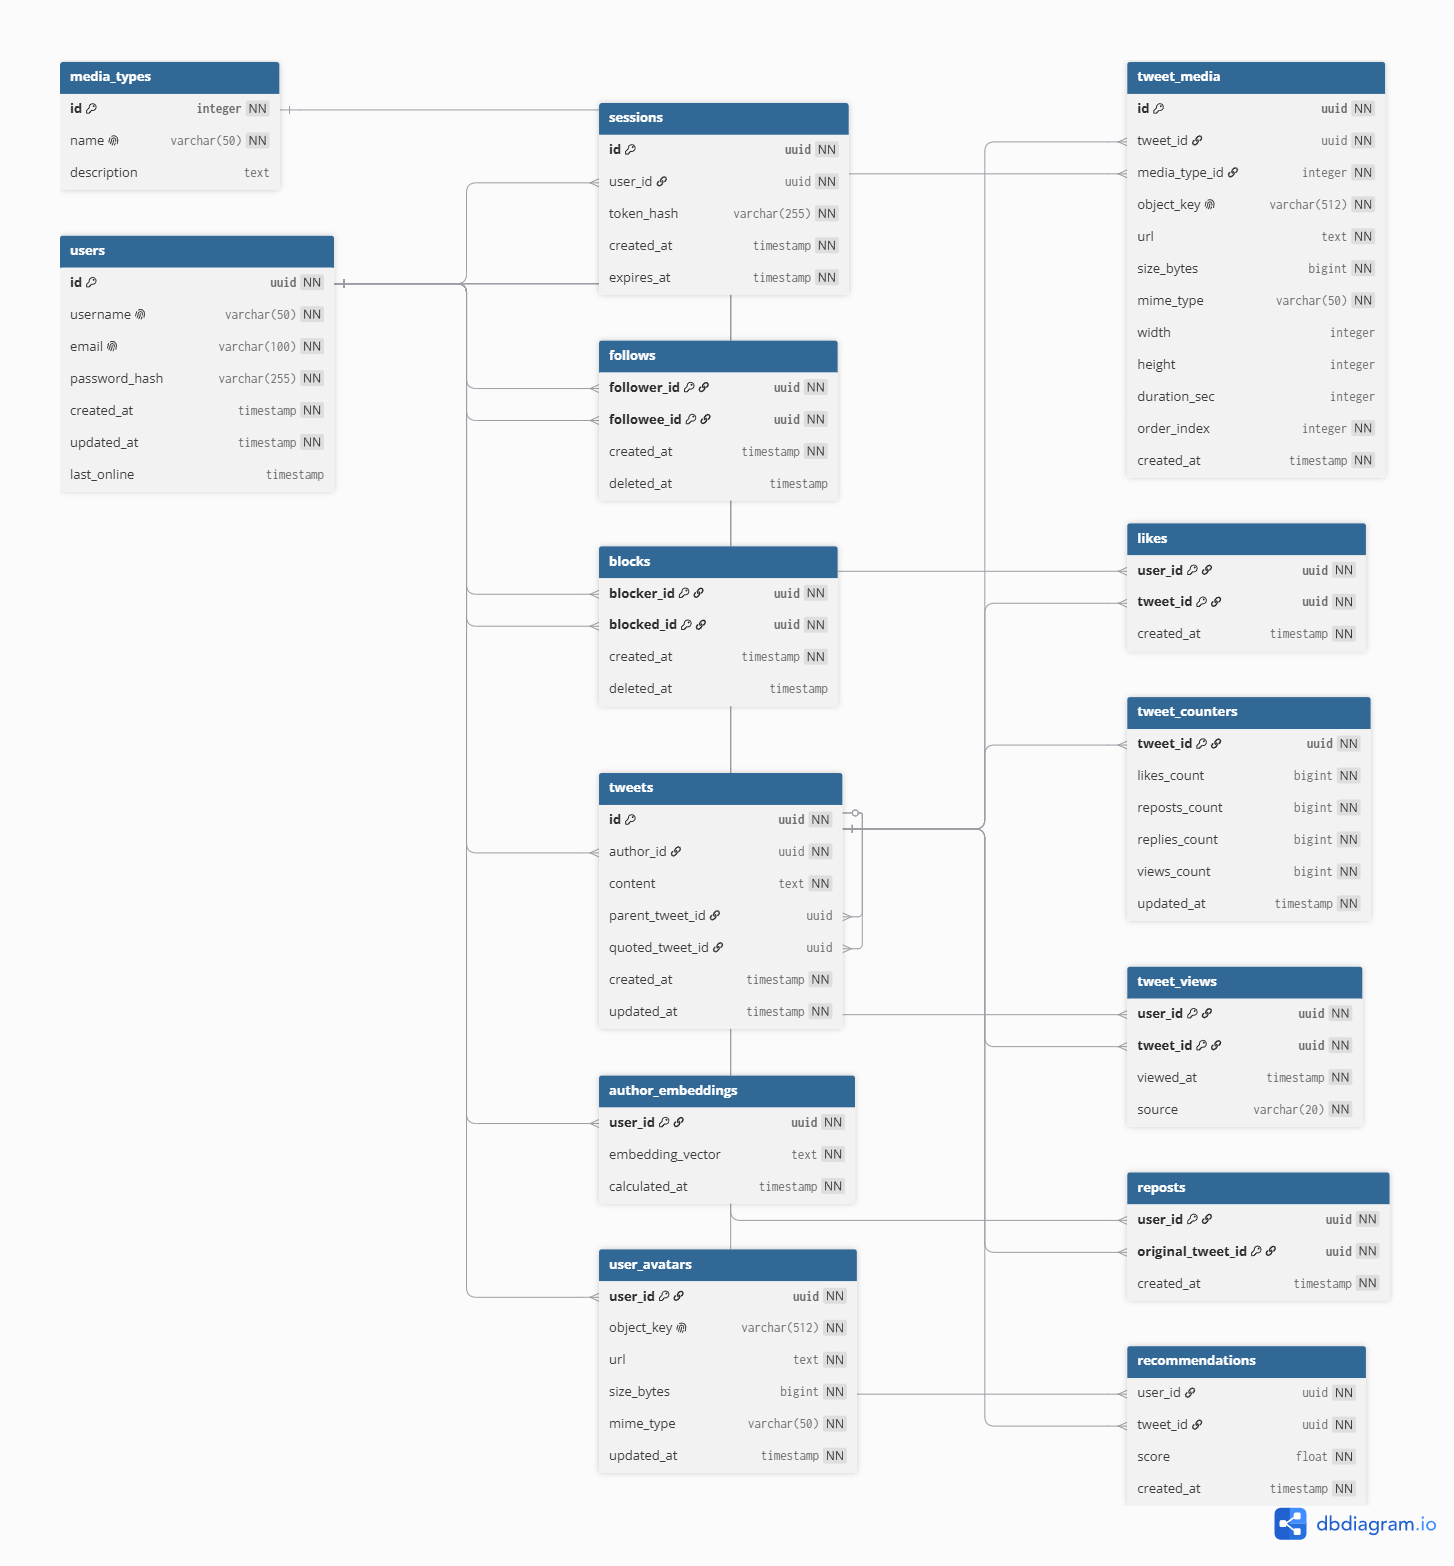
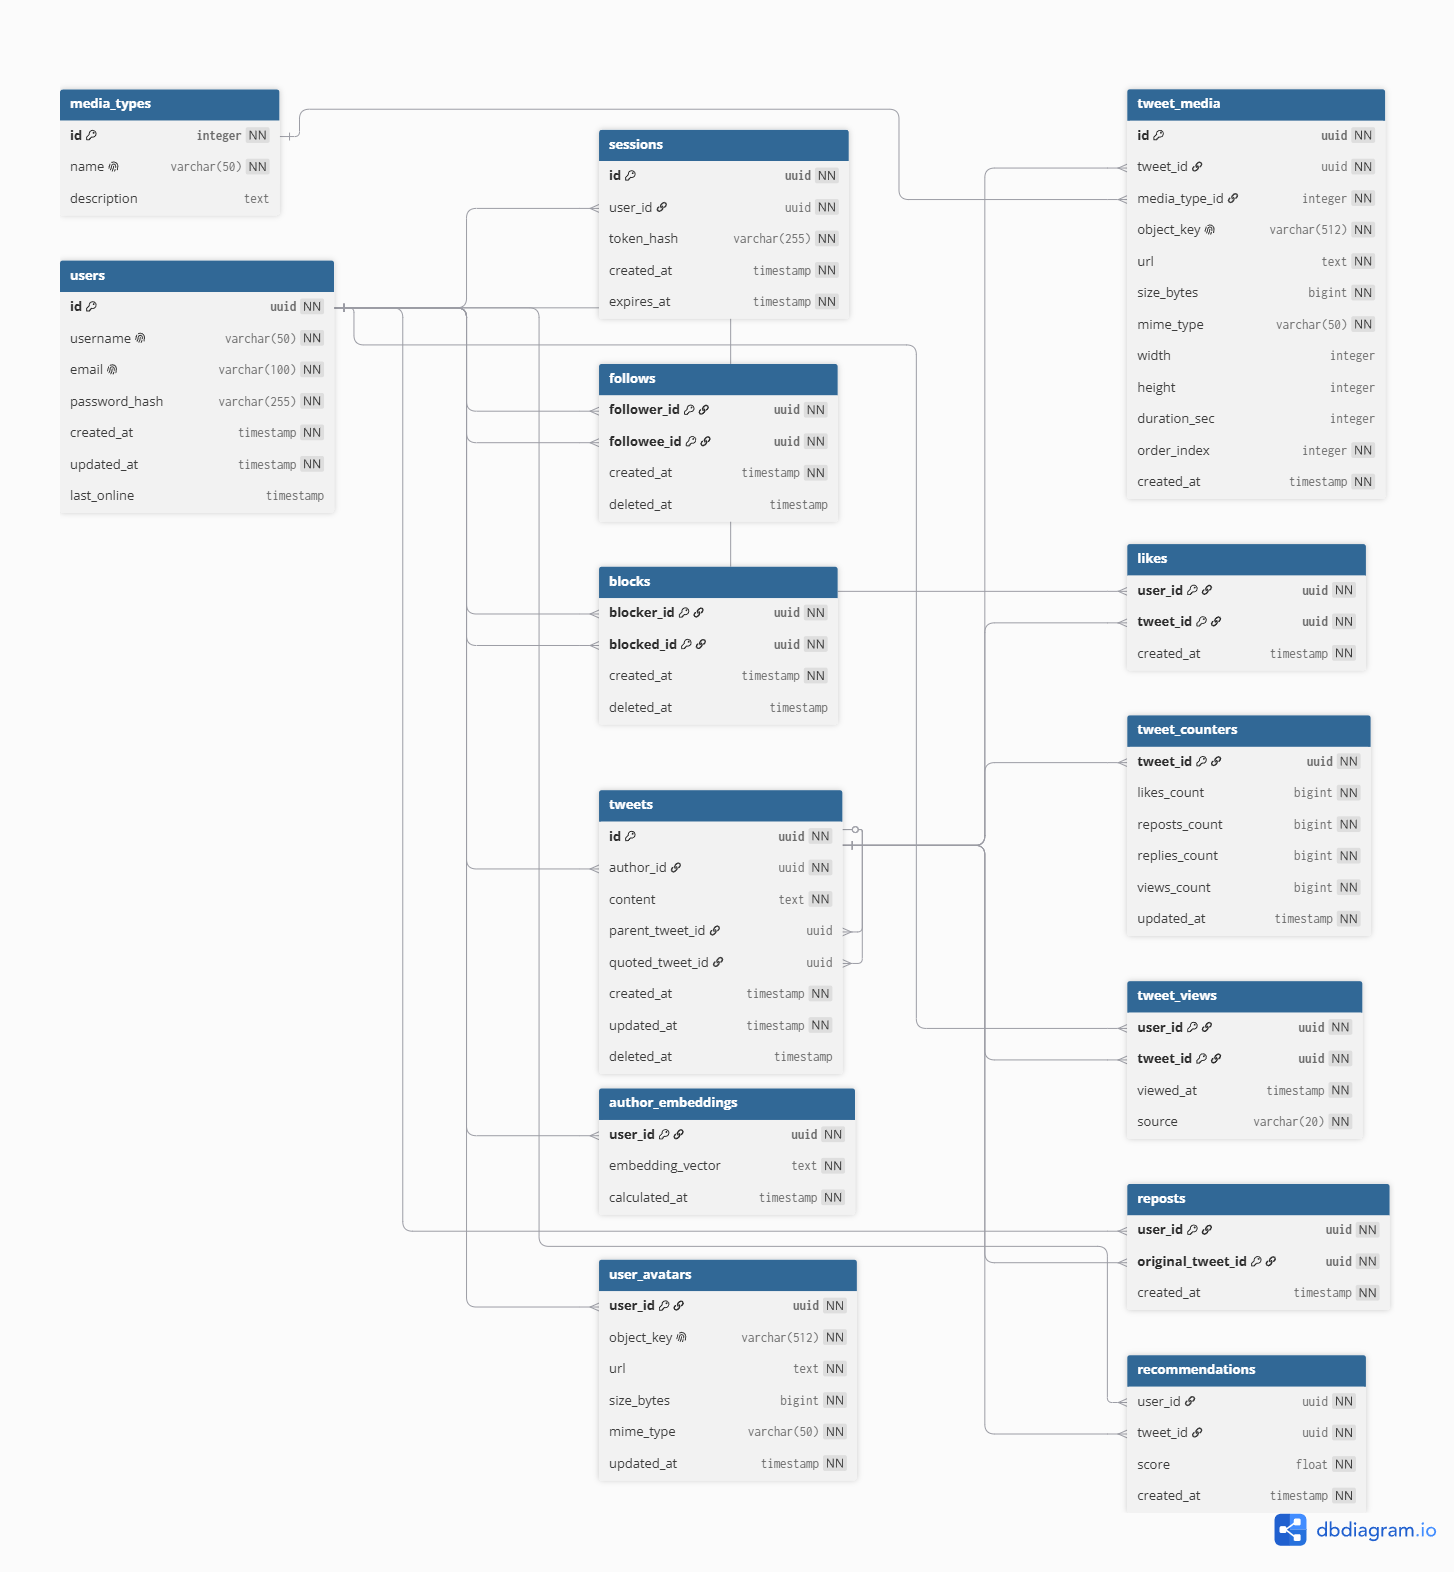
fix

diff --git a/README.md b/README.md
@@ -440,7 +440,7 @@ flowchart TD
 8.8 / 24 = 0.367 Gbps/vCPU
 ```
 
-## Пропускная способность одной ingress-ноды
+### Пропускная способность одной ingress-ноды
 
 Для 16 vCPU:
 
@@ -448,7 +448,7 @@ flowchart TD
 0.367 * 16 = 5.87 Gbps
 ```
 
-## Расчет сетевой нагрузки
+### Расчет сетевой нагрузки
 
 Средний размер API/Web ответа:
 
@@ -463,7 +463,7 @@ flowchart TD
 = 128.7 Gbps
 ```
 
-## Количество нод по сети
+### Количество нод по сети
 
 ```text
 128.7 / 5.87 = 21.93
@@ -475,7 +475,7 @@ flowchart TD
 22 ingress-нод
 ```
 
-# Итоговый расчет
+### Итоговый расчет
 
 |Ограничение|Требуется нод|
 |---|---|
@@ -484,7 +484,7 @@ flowchart TD
 
 Сеть становится основным ограничителем.
 
-## Итоговая конфигурация
+### Итоговая конфигурация
 
 Используется схема резервирования N + 1.
 
@@ -526,22 +526,22 @@ flowchart TD
 
 ### Описание таблиц
 
-|Таблица|Назначение|Что хранится|Особенности|
-|---|---|---|---|
-|`media_types`|Справочник типов медиафайлов|Типы `image`, `video`, `gif`|Практически не изменяется|
-|`users`|Профиль пользователя|Username, email, пароль, даты создания и обновления|Основная учетная сущность|
-|`sessions`|Пользовательские сессии|Токены авторизации и срок действия|Используется для проверки авторизации|
-|`follows`|Подписки|Кто на кого подписан|Для unfollow используется soft-delete|
-|`blocks`|Блокировки|Кто кого заблокировал|Для unblock используется soft-delete|
-|`tweets`|Твиты|Текст, автор, ответы, цитаты|Основная сущность платформы|
-|`tweet_media`|Медиафайлы твитов|Ссылки на изображения и видео|Хранятся только метаданные|
-|`likes`|Лайки|Кто лайкнул какой твит|Высокая нагрузка на запись|
-|`reposts`|Репосты|Кто репостнул какой твит|Используется при формировании ленты|
-|`tweet_views`|История просмотров|Какие твиты были показаны пользователю|Нужна для исключения повторных показов|
-|`tweet_counters`|Счетчики|Количество лайков, просмотров, ответов и репостов|Обновляются асинхронно|
-|`recommendations`|Рекомендации|Предрасчитанная рекомендательная лента|Не является основным источником данных|
-|`author_embeddings`|Векторные представления|Векторы интересов пользователей|Используются для рекомендаций|
-|`user_avatars`|Аватары|Метаданные аватаров пользователей|Бинарные файлы лежат в S3|
+| Таблица             | Назначение                   | Что хранится                                        | Особенности                                              |
+| ------------------- | ---------------------------- | --------------------------------------------------- | -------------------------------------------------------- |
+| `media_types`       | Справочник типов медиафайлов | Типы `image`, `video`, `gif`                        | Практически не изменяется                                |
+| `users`             | Профиль пользователя         | Username, email, пароль, даты создания и обновления | Основная учетная сущность                                |
+| `sessions`          | Пользовательские сессии      | Токены авторизации и срок действия                  | Используется для проверки авторизации                    |
+| `follows`           | Подписки                     | Кто на кого подписан                                | Используется при формировании ленты                      |
+| `blocks`            | Блокировки                   | Кто кого заблокировал                               | Исключает контент заблокированных пользователей из лент. |
+| `tweets`            | Твиты                        | Текст, автор, ответы, цитаты                        | Основная сущность платформы                              |
+| `tweet_media`       | Медиафайлы твитов            | Ссылки на изображения и видео                       | Хранятся только метаданные                               |
+| `likes`             | Лайки                        | Кто лайкнул какой твит                              | Высокая нагрузка на запись                               |
+| `reposts`           | Репосты                      | Кто репостнул какой твит                            | Используется при формировании ленты                      |
+| `tweet_views`       | История просмотров           | Какие твиты были показаны пользователю              | Нужна для исключения повторных показов                   |
+| `tweet_counters`    | Счетчики                     | Количество лайков, просмотров, ответов и репостов   | Обновляются асинхронно                                   |
+| `recommendations`   | Рекомендации                 | Предрасчитанная рекомендательная лента              | Не является основным источником данных                   |
+| `author_embeddings` | Векторные представления      | Векторы интересов пользователей                     | Используются для рекомендаций                            |
+| `user_avatars`      | Аватары                      | Метаданные аватаров пользователей                   | Бинарные файлы лежат в S3                                |
 
 ### Размеры данных и нагрузка
 
@@ -550,32 +550,32 @@ flowchart TD
 | `media_types`       | ~100 B                | <1 / <1               | ~10 / ~20             | <0.01 ГБ        | <0.01 ГБ        | Небольшой справочник                          |
 | `users`             | ~200 B                | 5 / 10                | 50,000 / 75,000       | 0.09 ГБ         | 900 ГБ          | Профили активно кешируются                    |
 | `sessions`          | ~150 B                | 50 / 75               | 248,000 / 372,000     | 0.65 ГБ         | 4,000 ГБ        | Проверка авторизации почти на каждом запросе  |
-| `tweets`            | ~500 B                | 5,382 / 8,073         | 940,000 / 1,410,000   | 240 ГБ          | 48 ТБ           | Основная нагрузка чтения — формирование ленты |
+| `tweets`            | ~500 B                | 5,382 / 8,073         | 387,500 / 581,250     | 240 ГБ          | 19.4 ТБ         | Основная нагрузка чтения формирование ленты   |
 | `follows`           | ~60 B                 | 300 / 500             | 50,000 / 75,000       | 1.5 ГБ          | 250 ГБ          | Используется при построении ленты             |
 | `blocks`            | ~60 B                 | 10 / 20               | 50,000 / 75,000       | 0.04 ГБ         | 260 ГБ          | Проверка блокировок                           |
 | `likes`             | ~70 B                 | 32,407 / 48,610       | 300,000 / 450,000     | 190 ГБ          | 2.1 ТБ          | Высокая активность лайков                     |
 | `reposts`           | ~70 B                 | 3,704 / 5,556         | 80,000 / 120,000      | 20 ГБ           | 420 ГБ          | Репосты менее часты                           |
-| `tweet_views`       | ~80 B                 | 386,000 / 1,158,000   | 500,000 / 1,500,000   | 2.6 ТБ          | 3.4 ТБ          | Каждый показ твита записывается               |
+| `tweet_views`       | ~80 B                 | 98,380 / 147,570      | 387,500 / 581,250     | 680 ГБ          | 1.9 ТБ          | Просмотры формируются при показе ленты        |
 | `tweet_media`       | ~200 B                | 10,000 / 15,000       | 200,000 / 300,000     | 170 ГБ          | 3.2 ТБ          | Метаданные медиа                              |
-| `tweet_counters`    | ~70 B                 | 41,500 / 62,000       | 940,000 / 1,410,000   | 200 ГБ          | 4.7 ТБ          | Обновляются асинхронно                        |
-| `recommendations`   | ~80 B                 | 500,000 / 750,000     | 940,000 / 1,410,000   | 3.5 ТБ          | 6.5 ТБ          | Регулярный пересчет рекомендаций              |
+| `tweet_counters`    | ~70 B                 | 41,500 / 62,000       | 387,500 / 581,250     | 200 ГБ          | 2.1 ТБ          | Обновляются асинхронно                        |
+| `recommendations`   | ~80 B                 | 500,000 / 750,000     | 387,500 / 581,250     | 3.5 ТБ          | 2.8 ТБ          | Регулярный пересчет рекомендаций              |
 | `author_embeddings` | ~2 KB                 | 500 / 1,000           | 50,000 / 75,000       | 85 ГБ           | 9 ТБ            | Используются для поиска похожих пользователей |
 | `user_avatars`      | ~200 B                | 30 / 50               | 50,000 / 75,000       | 0.05 ГБ         | 720 ГБ          | Основная нагрузка снимается CDN               |
 
 ### Требования к согласованности данных
 
-|Таблица или связка|Тип согласованности|Что должно быть согласовано|Основание|
-|---|---|---|---|
-|`tweets` + `tweet_counters`|Strong|Создание твита и начальных счетчиков|Новый твит должен сразу отображаться корректно|
-|`likes` + `tweet_counters.likes_count`|Eventual|Лайк и обновление счетчика лайков|Допустима небольшая задержка|
-|`reposts` + `tweet_counters.reposts_count`|Eventual|Репост и обновление счетчика|Допустима небольшая задержка|
-|`tweets.parent_tweet_id` + `tweet_counters.replies_count`|Eventual|Ответ и счетчик ответов|Допустима задержка|
-|`tweet_views` + `recommendations`|Eventual|Исключение уже просмотренных твитов|Допустима задержка|
-|`follows` при формировании ленты|Eventual|Обновление подписок|Допустима небольшая задержка|
-|`blocks` при формировании ленты|Strong|Исключение заблокированных пользователей|Контент не должен отображаться|
-|`recommendations`|Eventual|Обновление рекомендаций|Пересчет выполняется периодически|
-|`author_embeddings`|Eventual|Пересчет векторов|Допустима задержка в несколько часов|
-|`users.last_online`|Eventual|Время последней активности|Точное время не критично|
+| Таблица или связка                                        | Тип согласованности | Что должно быть согласовано              | Основание                                      |
+| --------------------------------------------------------- | ------------------- | ---------------------------------------- | ---------------------------------------------- |
+| `tweets` + `tweet_counters`                               | Strong              | Создание твита и начальных счетчиков     | Новый твит должен сразу отображаться корректно |
+| `likes` + `tweet_counters.likes_count`                    | Eventual            | Лайк и обновление счетчика лайков        | Допустима небольшая задержка                   |
+| `reposts` + `tweet_counters.reposts_count`                | Eventual            | Репост и обновление счетчика             | Допустима небольшая задержка                   |
+| `tweets.parent_tweet_id` + `tweet_counters.replies_count` | Eventual            | Ответ и счетчик ответов                  | Допустима задержка                             |
+| `tweet_views` + `recommendations`                         | Eventual            | Исключение уже просмотренных твитов      | Допустима задержка                             |
+| `follows` при формировании ленты                          | Eventual            | Обновление подписок                      | Допустима небольшая задержка                   |
+| `blocks` при формировании ленты                           | Strong              | Исключение заблокированных пользователей | Контент не должен отображаться                 |
+| `recommendations`                                         | Eventual            | Обновление рекомендаций                  | Пересчет выполняется периодически              |
+| `author_embeddings`                                       | Eventual            | Пересчет векторов                        | Допустима задержка в несколько часов           |
+| `users.last_online`                                       | Eventual            | Время последней активности               | Точное время не критично                       |
 
 ### Особенности распределения нагрузки
 